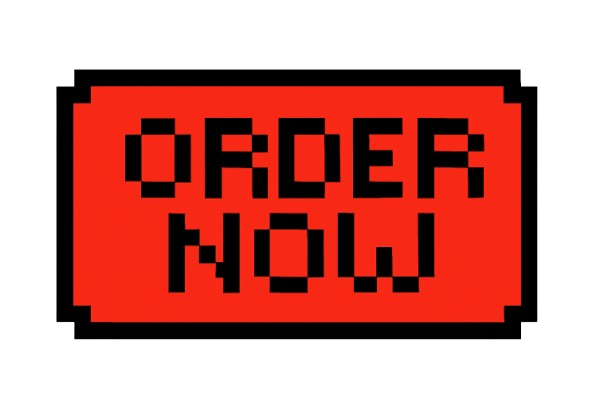
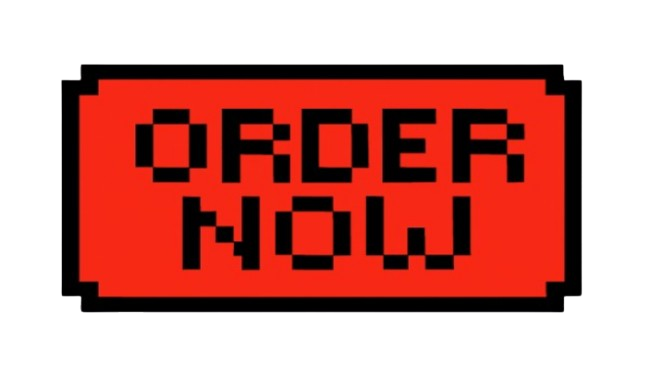
yoo

diff --git a/style.css b/style.css
@@ -345,12 +345,11 @@ header {
   display: block;
   text-decoration: none;
   width: auto;
-  bottom: 14%; /* slightly below social-bar */
+  bottom: 14%;
 }
 
 .cta-button img {
-  width: 100%;
-  max-width: 220px;
+  width: 220px;
   height: auto;
   display: block;
   object-fit: contain;
@@ -370,7 +369,7 @@ header {
     bottom: 10%;
   }
   .cta-button img {
-    max-width: 110px;
+    width: 110px;
   }
 }
 
